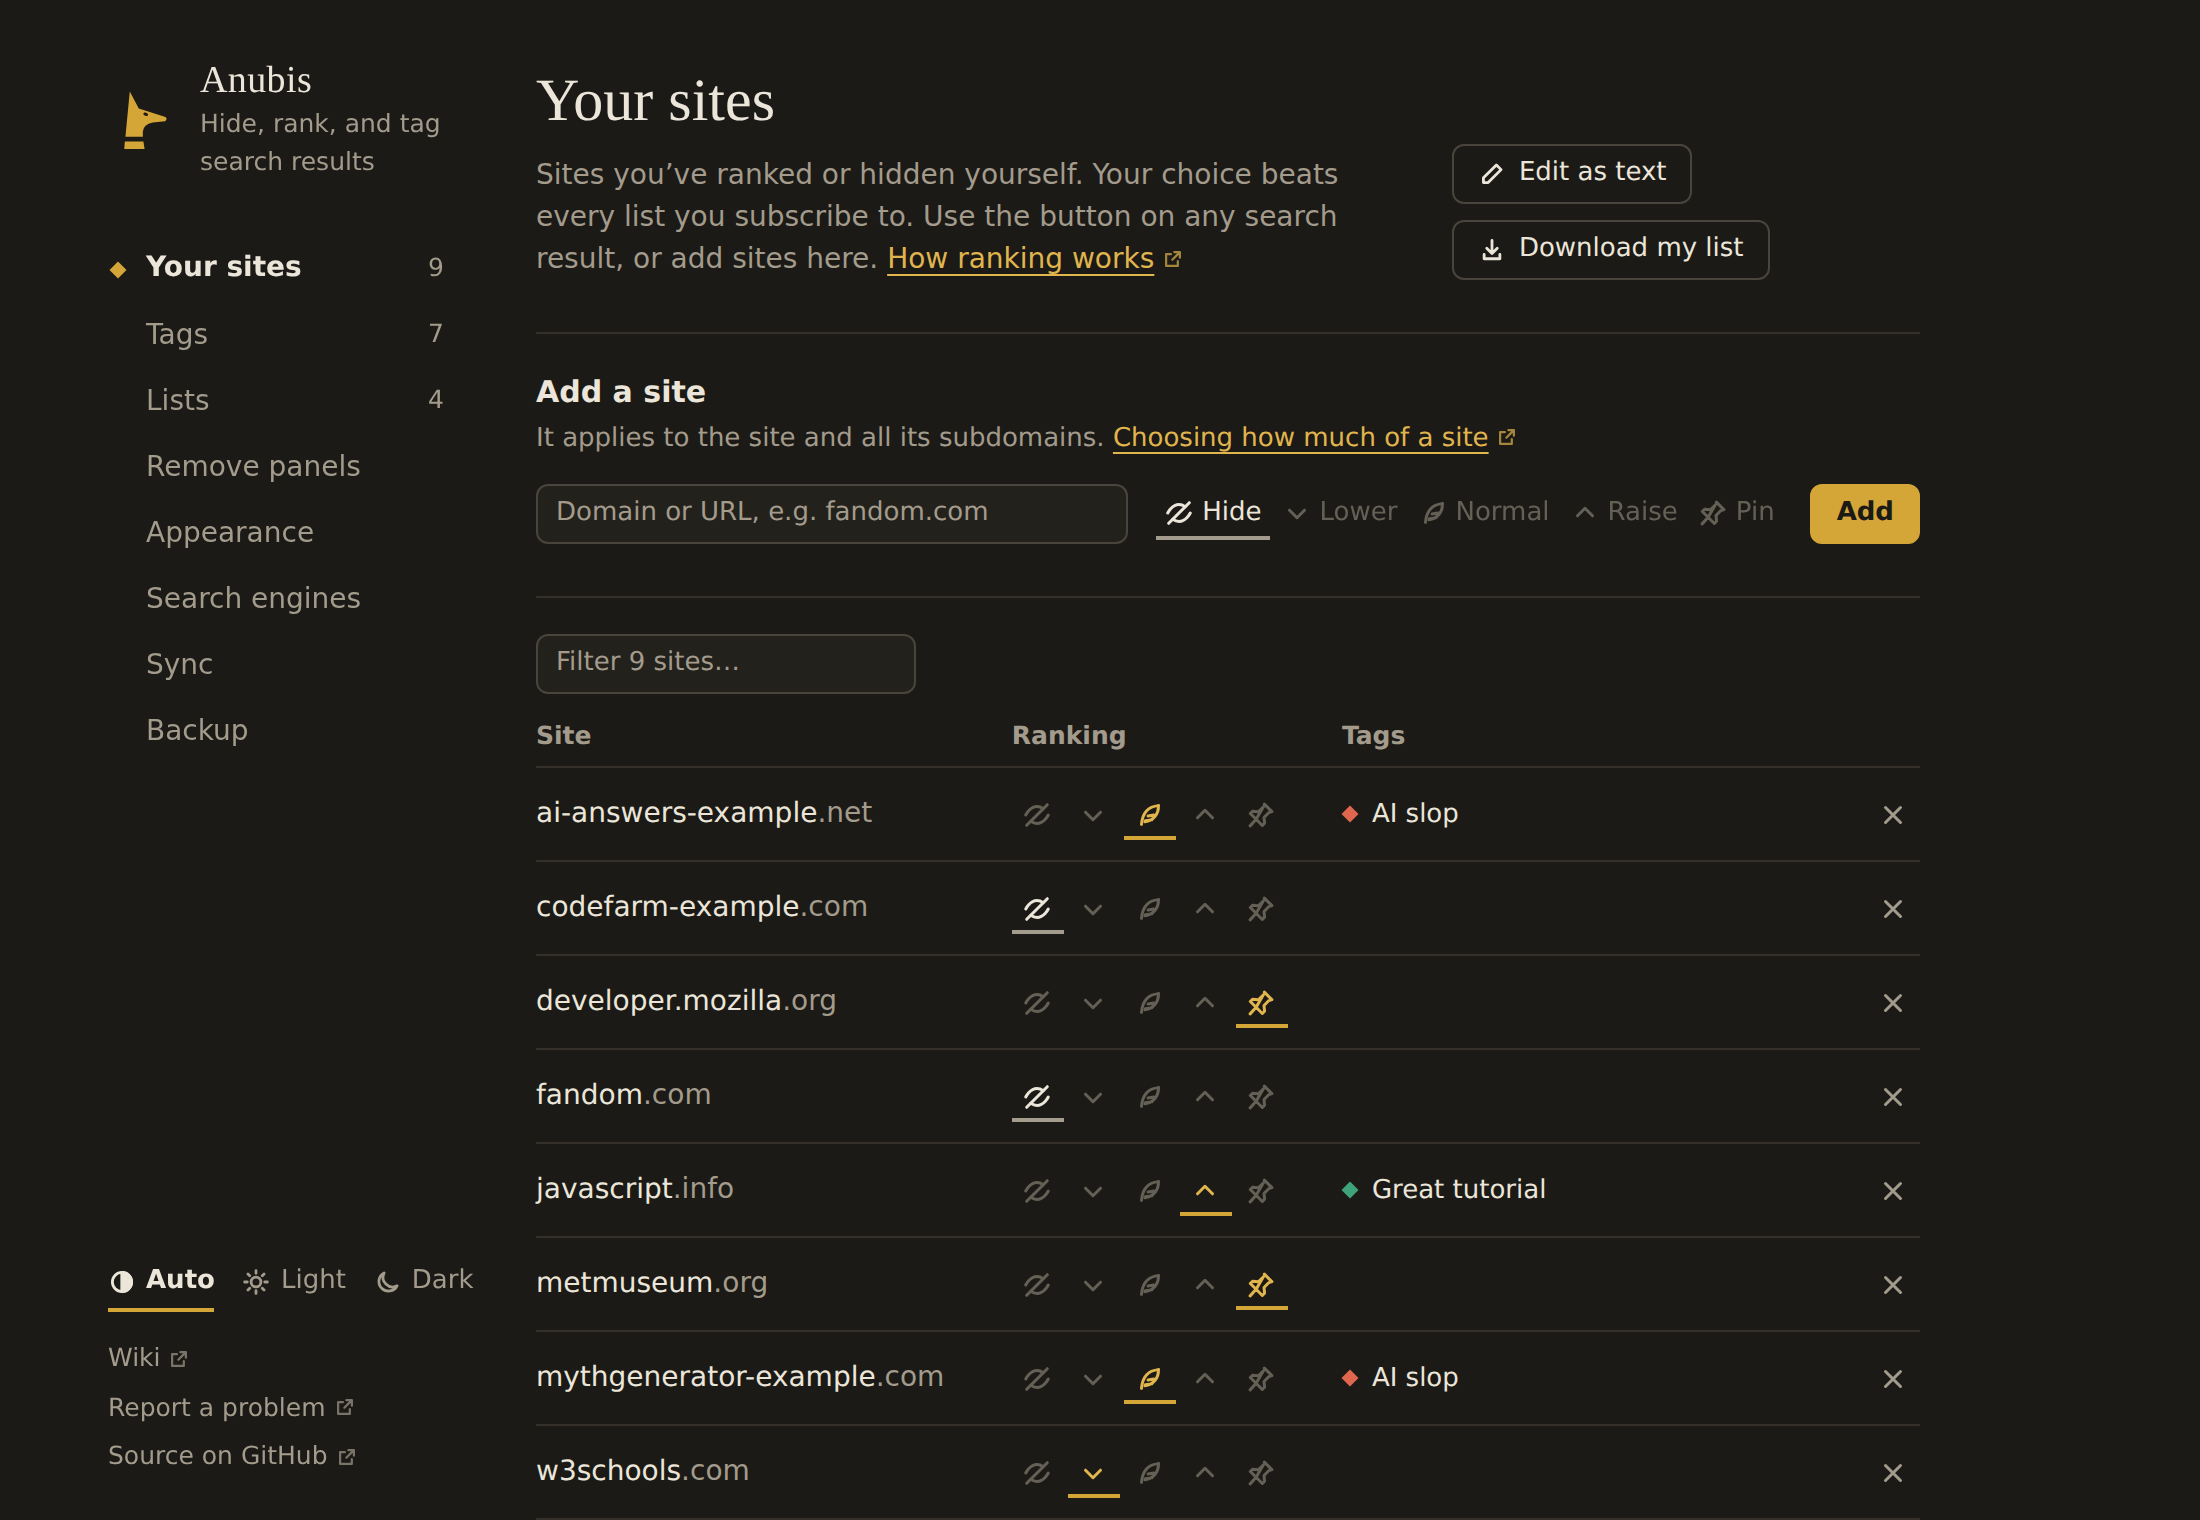
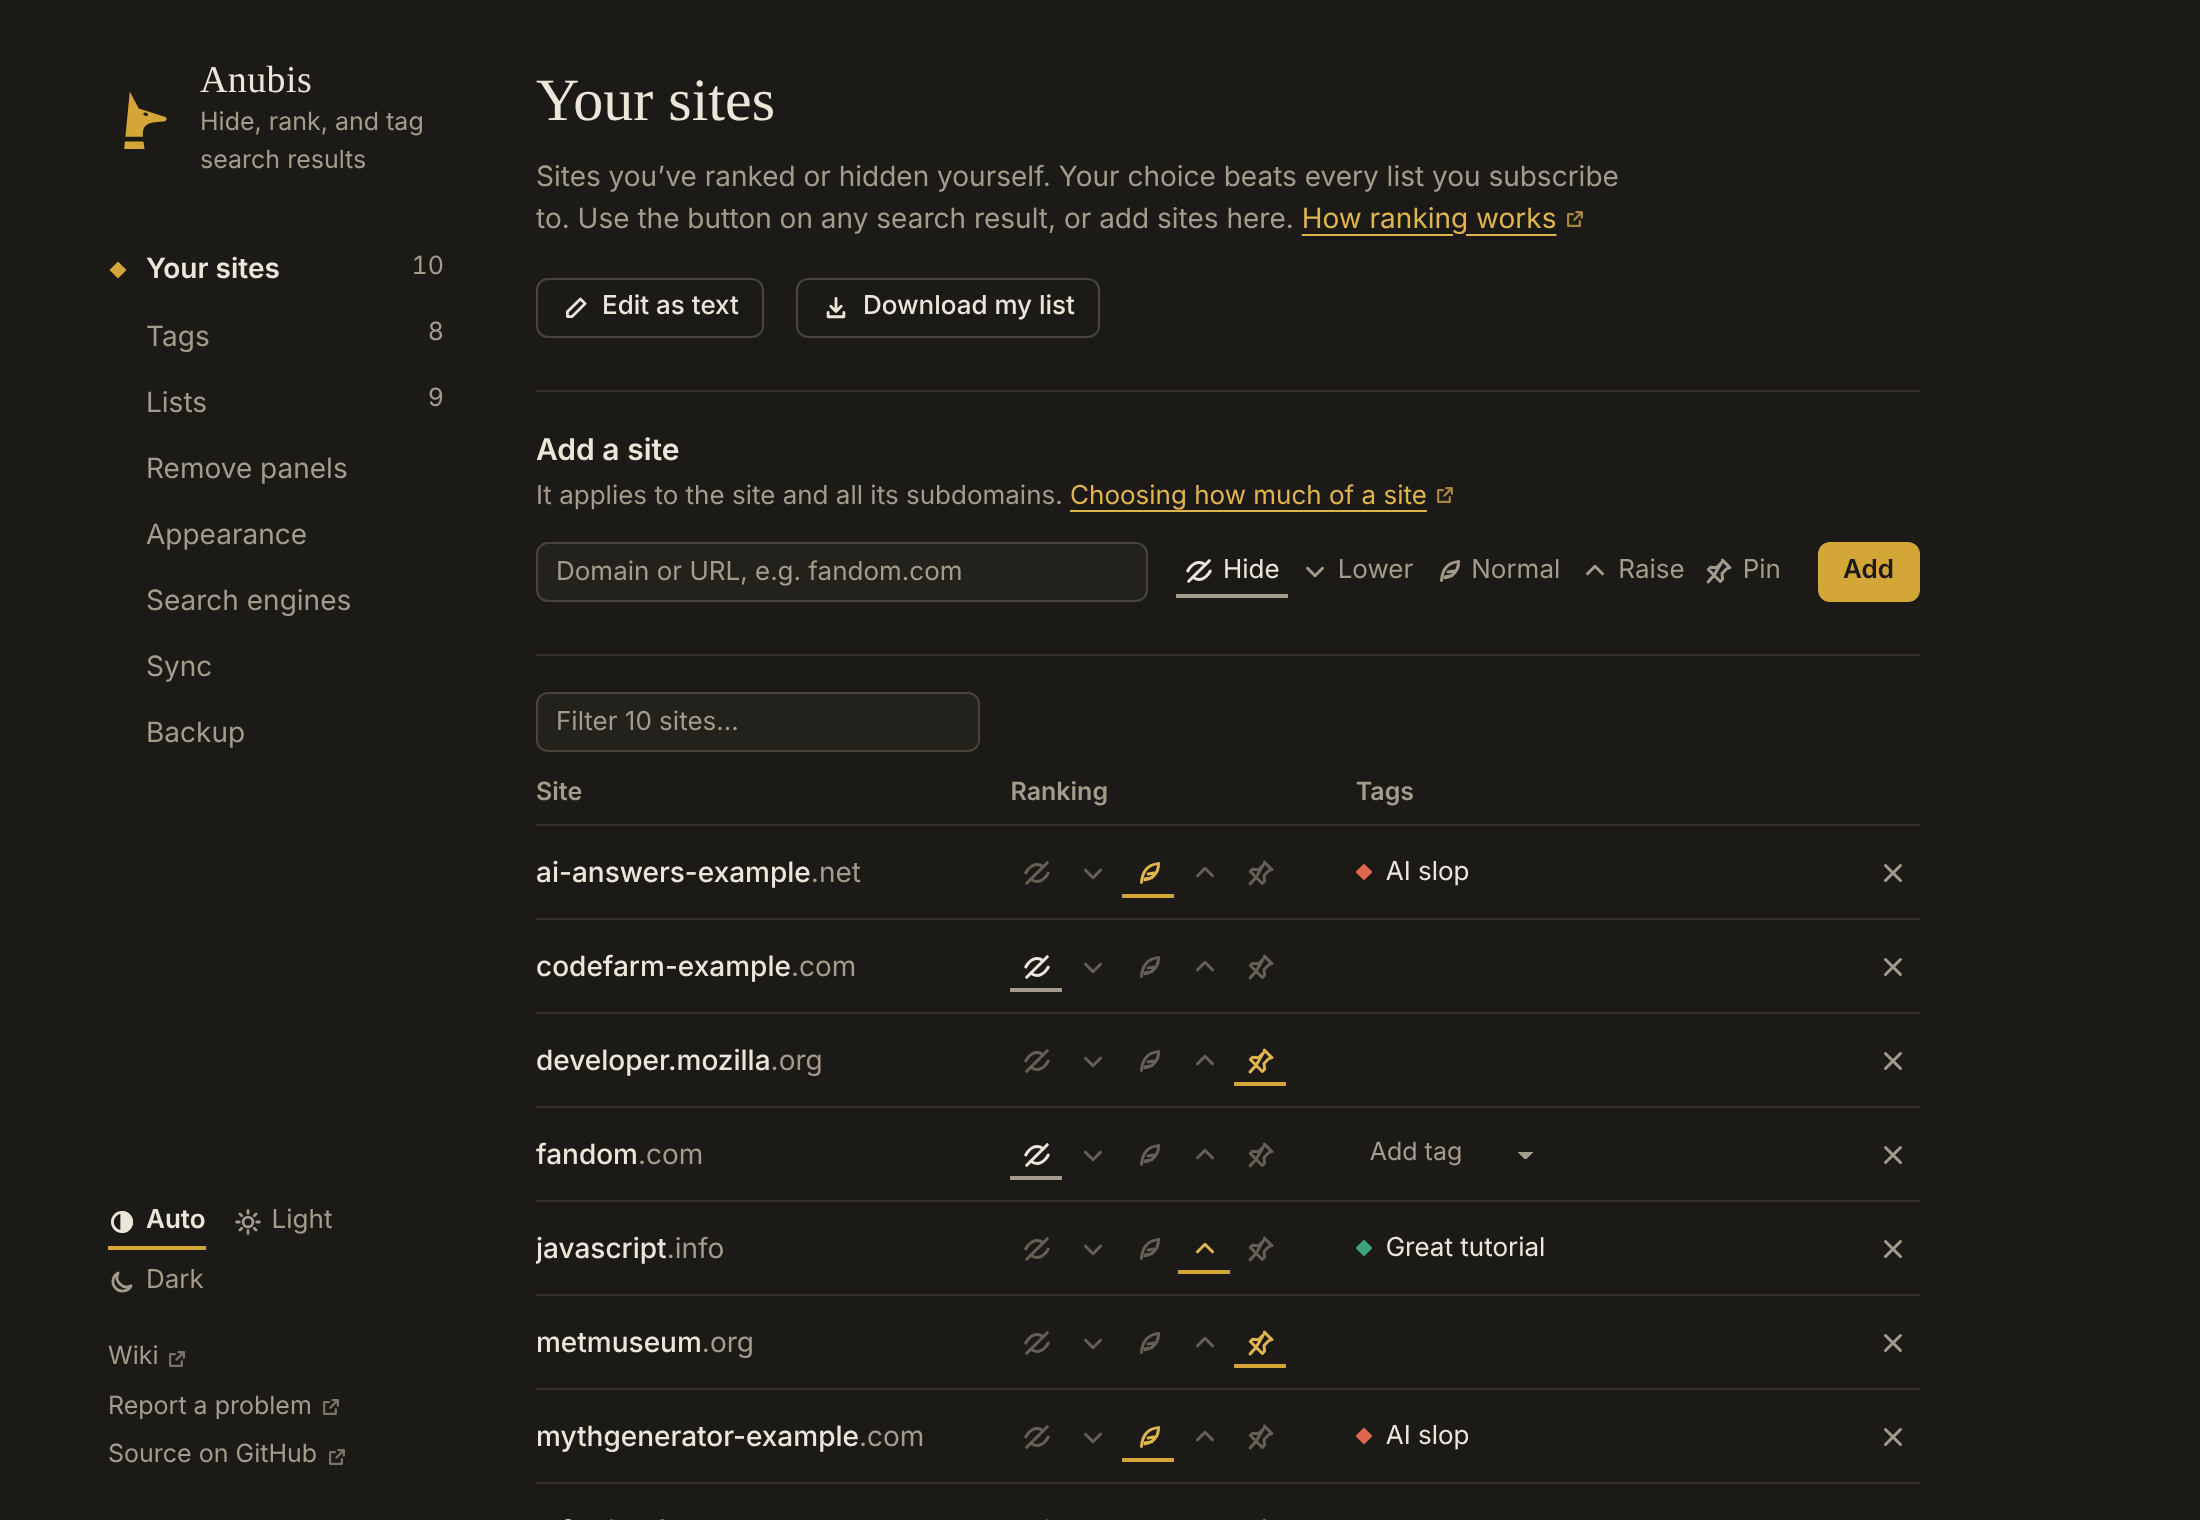
Check accessibility with axe-core and make the ranking labels readable

diff --git a/entrypoints/options/style.css b/entrypoints/options/style.css
@@ -310,6 +310,8 @@ table.sites tr:not(:hover):not(:focus-within) select.add-tag {
   flex-wrap: wrap;
 }
 .levels.labelled button {
+  /* Words, not icons: at the dimmed 0.55 their contrast is under 4.5:1. */
+  opacity: 1;
   width: auto;
   padding: 0 4px;
   gap: 4px;

diff --git a/ACCESSIBILITY.md b/ACCESSIBILITY.md
@@ -56,6 +56,7 @@ The optional reason field under **Settings → Tags** has a visible label that n
 
 ## Checking a change
 
+- Run `node e2e/run.mjs axe` (after `npm run build:chrome`). It checks Settings, the popup, and the welcome page in light and dark with axe-core against WCAG 2.2 AA, and CI runs it on every pull request. It finds missing names, bad roles, and low contrast, but not whether the thing makes sense, so the steps below still apply. It doesn't reach the search-page menu, which is in a closed shadow root.
 - Put the mouse away and do the thing with Tab, Shift+Tab, Enter, Space, and Escape. Watch where focus goes after each step.
 - Listen to it once. NVDA with Firefox on Windows, Orca on Linux, or VoiceOver with Chrome on a Mac are all free. On a search page, move through a few results and hear what Anubis adds to each.
 - Look at the accessibility tree: Firefox's Accessibility panel in DevTools, or Chrome's Accessibility pane in Elements. It shows each control's name, role, and state, and it can see inside the closed shadow roots.

diff --git a/CLAUDE.md b/CLAUDE.md
@@ -23,7 +23,7 @@ Firefox is the default target; `:chrome` variants override it.
 - `npm run compile`: type-check. Run it after every change.
 - `npm test`: Vitest unit tests in `tests/`.
 - `npm run build` / `npm run build:chrome`; `npm run dev` / `npm run dev:chrome` open a browser with the extension.
-- `npm run e2e`, or `node e2e/run.mjs <part>` after `build:chrome`: checks against mock search pages (`e2e/fixtures.mjs`). `checks` and `responsive` are the parts CI runs.
+- `npm run e2e`, or `node e2e/run.mjs <part>` after `build:chrome`: checks against mock search pages (`e2e/fixtures.mjs`). `checks`, `responsive`, and `axe` (axe-core over Settings, the popup, and the welcome page) are among the parts CI runs.
 - `npx web-ext lint -s .output/firefox-mv2`: keep it at zero warnings.
 - `npm run docs:build`: the documentation site; fails on a broken link. `node e2e/run.mjs docs` redraws its screenshots; commit only the ones a change affects.
 - `npm run release:prep -- <version>`: the checks before a release.

diff --git a/DEVELOPMENT.md b/DEVELOPMENT.md
@@ -33,6 +33,7 @@ npm run build:chrome   # .output/chrome-mv3/
 npx web-ext lint -s .output/firefox-mv2
 npm run e2e            # Chrome build, then every end-to-end check (needs Chromium)
 node e2e/run.mjs responsive # Settings layout at 320px, 360px, 375px, 389px, and 390px
+node e2e/run.mjs axe        # axe-core over Settings, the popup, and the welcome page, light and dark
 npm run docs:dev       # the wiki, with live reload
 npm run docs:build     # the wiki; fails on a broken link
 npm run zip            # store packages (see "Releasing")
